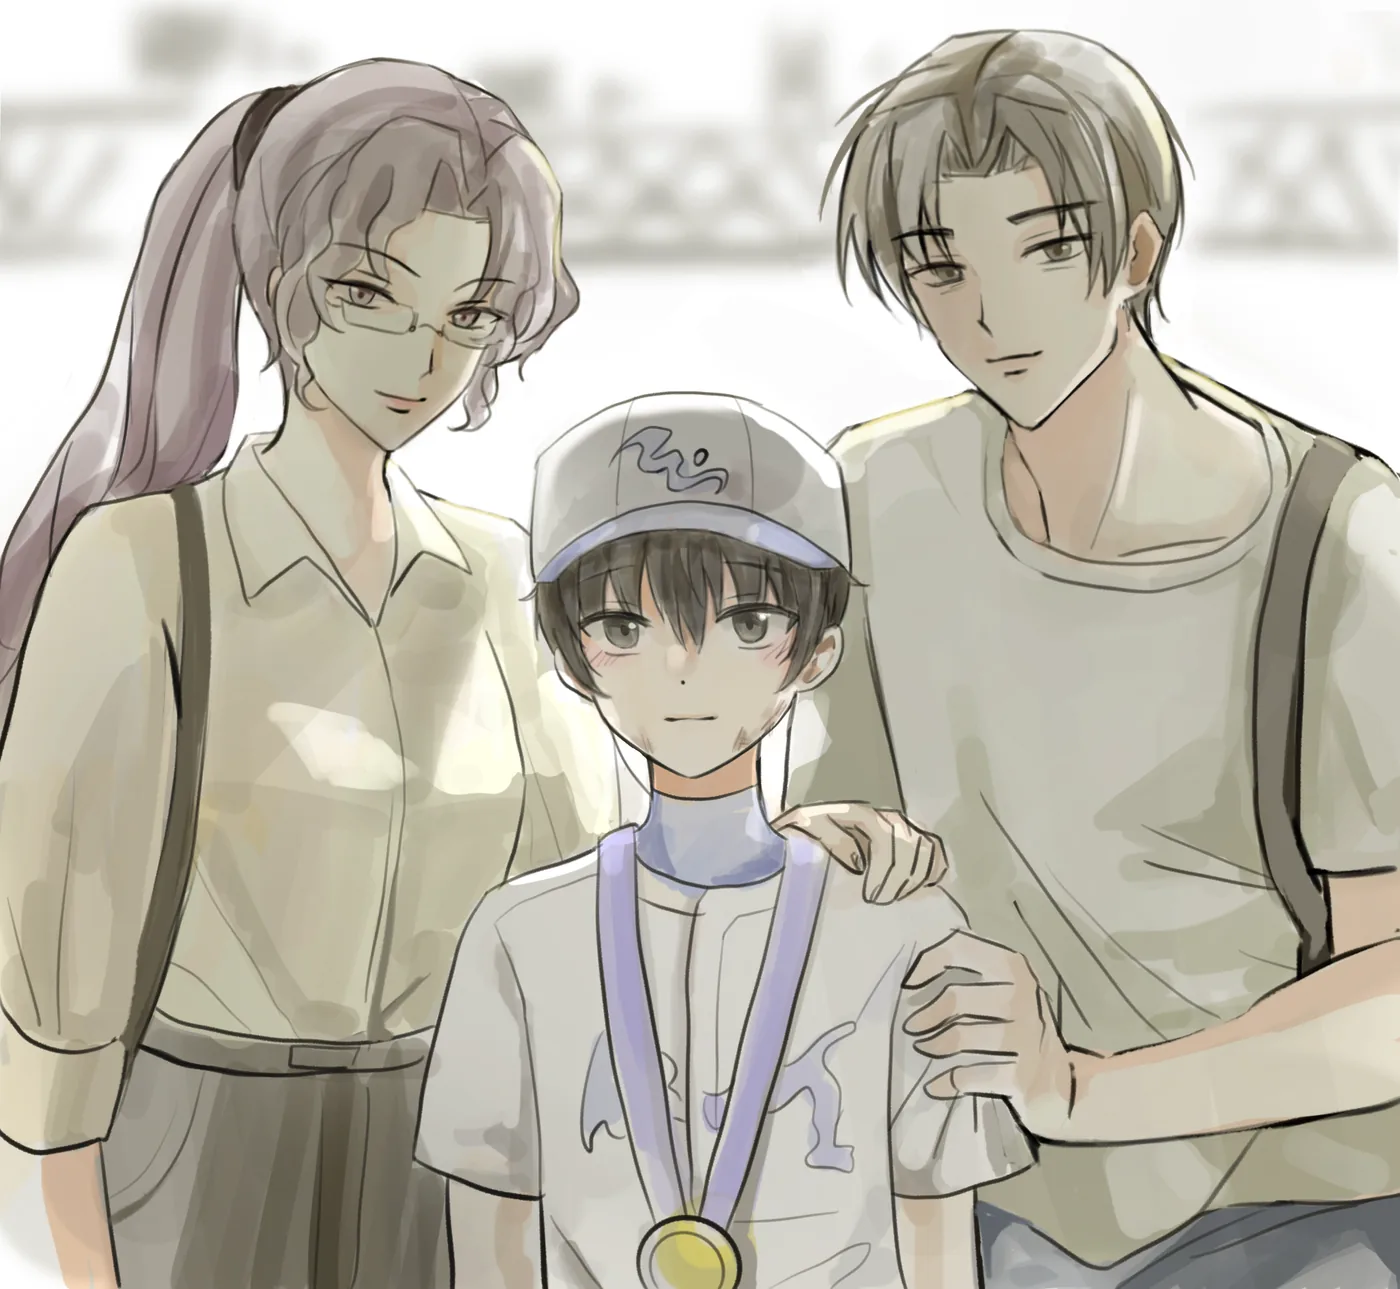
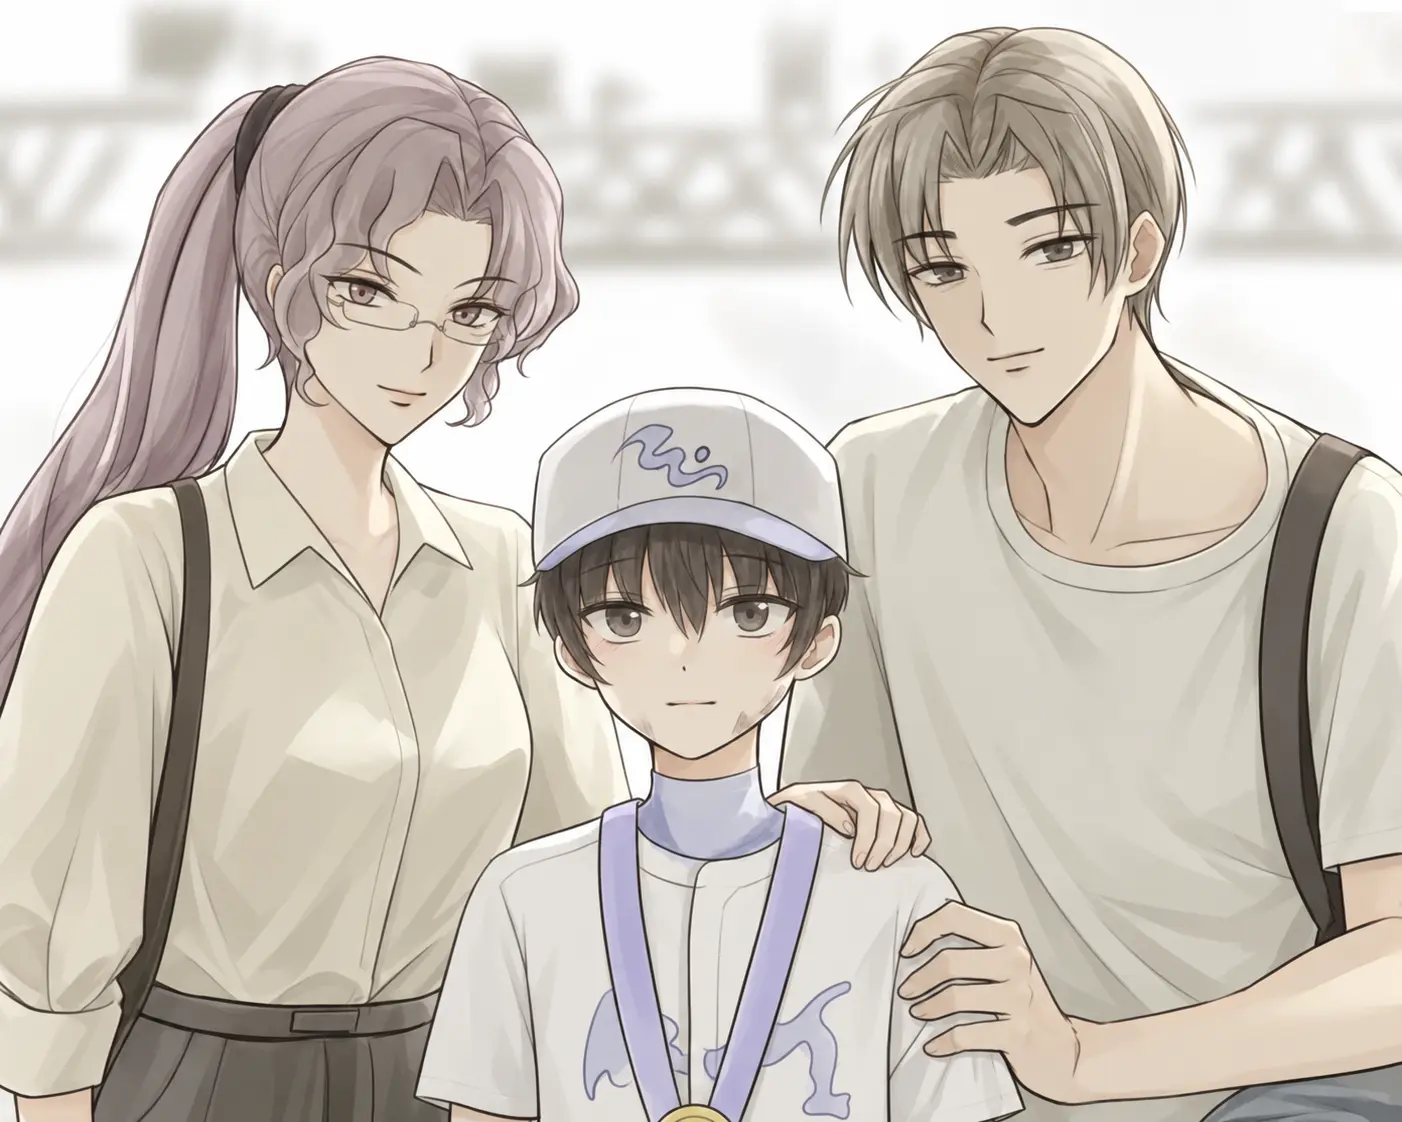
fix(photo-wipe): 새 액자 사진의 비율에 표시 크기를 맞춘다
사진 두 장이 바뀌었다 (1차 1400×1063 → 1313×1198, 2차 1400×1289 → 1402×1122).
닦기 미니게임은 표시 크기를 하드코딩해 캔버스에 꽉 채워 그리므로, 비율이 어긋난 채로
두면 사진이 늘어난다. 1차 560×511, 2차 620×496으로 원본 비율에 맞춘다.

- 서비스 워커 캐시와 갈라지도록 두 이미지 URL에 ?v=20260912
- 방의 액자 크롭 주석을 새 비율(1.10 / 1.25)로 고친다. 퍼즐은 원본 비율을 읽어 그대로다
- CREDITS.md에 액자 사진 출처 행 추가. 이름 없는 png 하나는 참조가 없어 지운다

diff --git a/src/lib/assets.ts b/src/lib/assets.ts
@@ -89,10 +89,13 @@ export const ASSETS = {
       10: "/assets/images/mg-calendar-flip-10.webp",
       11: "/assets/images/mg-calendar-flip-11.webp",
     } as Partial<Record<number, string>>,
-    /** 액자 사진 1차: 부모 얼굴이 그늘에 묻힌 버전. Phase 1의 바탕, Phase 2의 덮개. */
-    mgPhotoWipePhase1: "/assets/images/mg-photo-wipe-phase-1.webp",
+    /**
+     * 액자 사진 1차: 부모 얼굴이 그늘에 묻힌 버전. Phase 1의 바탕, Phase 2의 덮개.
+     * 그림을 갈아 끼우면 v도 바꾼다: 서비스 워커가 캐시를 먼저 읽어 옛 그림이 남는다.
+     */
+    mgPhotoWipePhase1: "/assets/images/mg-photo-wipe-phase-1.webp?v=20260912",
     /** 액자 사진 2차: 가족 얼굴이 드러난 버전. Phase 2에서 닦아내면 나온다. */
-    mgPhotoWipePhase2: "/assets/images/mg-photo-wipe-phase-2.webp",
+    mgPhotoWipePhase2: "/assets/images/mg-photo-wipe-phase-2.webp?v=20260912",
     /*
      * 전환 컷씬 일러스트 3컷. 게임을 통틀어 그림이 화면을 통째로 차지하는 유일한
      * 자리라, 파일이 아직 없어도 컷씬은 돌아간다. 없으면 회색 판이 대신 서고

diff --git a/src/scenes/memory-room/MemoryObjects.tsx b/src/scenes/memory-room/MemoryObjects.tsx
@@ -390,9 +390,9 @@ const FRAME_BARS = [
 function Frame({ palette, opacity }: VisualProps) {
   const revealed = useMemoryRoomStore((state) => state.revisited.includes("frame"));
   /*
-   * 잘려 나가는 정도가 두 그림이 다르다. 1차(1.32:1)는 액자 구멍(1.39:1)과 비슷해
-   * 위아래로 5%쯤만 깎이고, 2차(1.09:1)는 훨씬 세로로 길어 22%쯤 깎인다. 둘 다
-   * 얼굴은 가운데 세로 절반 안에 있어 남는다. 잘리는 건 위쪽 배경과 아래쪽 메달이다.
+   * 잘려 나가는 정도가 두 그림이 다르다. 1차(1.10:1)는 액자 구멍(1.39:1)보다 세로로
+   * 길어 위아래로 21%쯤 깎이고, 2차(1.25:1)는 10%쯤 깎인다. 1차에서 잘리는 건 그늘에
+   * 묻힌 부모의 이마와 아래쪽 메달이고, 2차의 세 얼굴은 가운데에 있어 다 남는다.
    */
   const photo = useCoverTexture(
     revealed ? ASSETS.images.mgPhotoWipePhase2 : ASSETS.images.mgPhotoWipePhase1,

diff --git a/src/minigames/photo-wipe/index.tsx b/src/minigames/photo-wipe/index.tsx
@@ -31,8 +31,9 @@ const CELL_PX = 16;
  * 1차는 부모 얼굴이 그늘에 묻힌 사진, 2차는 얼굴이 드러난 사진.
  */
 const PHOTOS = {
-  1: { src: ASSETS.images.mgPhotoWipePhase1, width: 620, height: 471, tint: "--color-bone" },
-  2: { src: ASSETS.images.mgPhotoWipePhase2, width: 560, height: 516, tint: "--color-memory" },
+  // 원본 1313×1198 (1.10:1) · 1402×1122 (1.25:1). 비율이 어긋나면 캔버스가 사진을 늘려 그린다
+  1: { src: ASSETS.images.mgPhotoWipePhase1, width: 560, height: 511, tint: "--color-bone" },
+  2: { src: ASSETS.images.mgPhotoWipePhase2, width: 620, height: 496, tint: "--color-memory" },
 } as const;
 
 function tokenColor(name: string): string {

diff --git a/public/assets/CREDITS.md b/public/assets/CREDITS.md
@@ -17,6 +17,7 @@
 | images/mg-ball-catch-impact.webp | Generated with OpenAI built-in ImageGen for this project, 2026-07-26 | OpenAI built-in ImageGen | Project-generated |
 | images/mg-frequency-tune-frame.webp | 사용자가 직접 넣은 라디오 일러스트(2026-08-04). 흰 배경·표시창을 알파로 도려낸 뒤 webp로 변환 | 미기재 (사용자 제공) | 미기재 |
 | images/mg-window-view-outside.webp | 사용자가 직접 넣은 창밖 일러스트(2026-08-04). webp로 변환 | 미기재 (사용자 제공) | 미기재 |
+| images/mg-photo-wipe-phase-1.webp, images/mg-photo-wipe-phase-2.webp | 사용자가 직접 넣은 액자 가족사진 일러스트 두 장(2026-09-12 교체). 1차는 부모 얼굴이 그늘에 묻힌 버전, 2차는 드러난 버전. webp | 미기재 (사용자 제공) | 미기재 |
 | models/ch1-radio.glb, models/room-books.glb, models/room-computer-*.glb, models/room-desk-lamp.glb, models/room-rug.glb, models/room-potted-plant.glb | 이 프로젝트를 위해 코드로 직접 제작(2026-09-12). 원본: scripts/create-original-furniture.mjs. 외부 모델·텍스처 사용 없음. DESIGN.md 씬 팔레트, Meshopt 압축 | Codex | 프로젝트 생성 에셋 |
 | 거실 운동화·쿠션·담요·머그컵·접시·리모컨·TV장 (런타임 지오메트리) | 이 프로젝트를 위해 코드로 직접 제작(2026-09-12). src/scenes/memory-room/LivingRoomDetails.tsx 및 LivingRoomFurniture.tsx. 외부 모델·텍스처 사용 없음 | Codex | 프로젝트 생성 에셋 |
 | models/room-potted-cactus.glb | 이 프로젝트를 위해 코드로 직접 제작(2026-09-11). 원본: scripts/create-cactus.mjs. 외부 모델·텍스처 사용 없음. DESIGN.md 씬 팔레트, Meshopt 압축 | Codex | 프로젝트 생성 에셋 |
